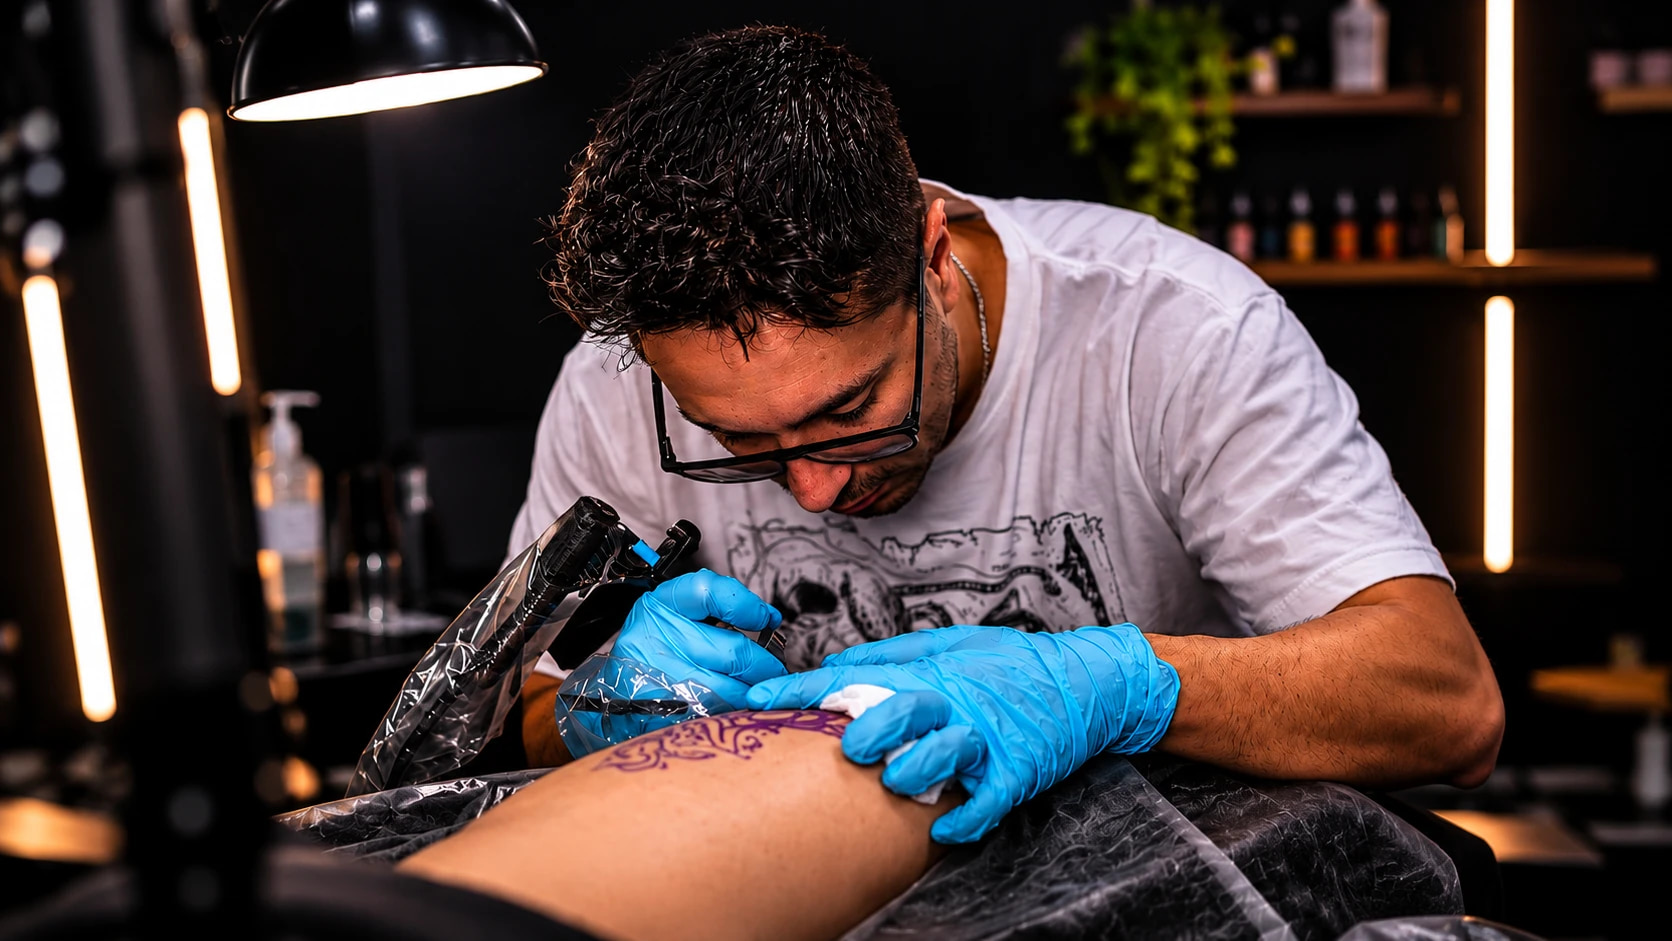
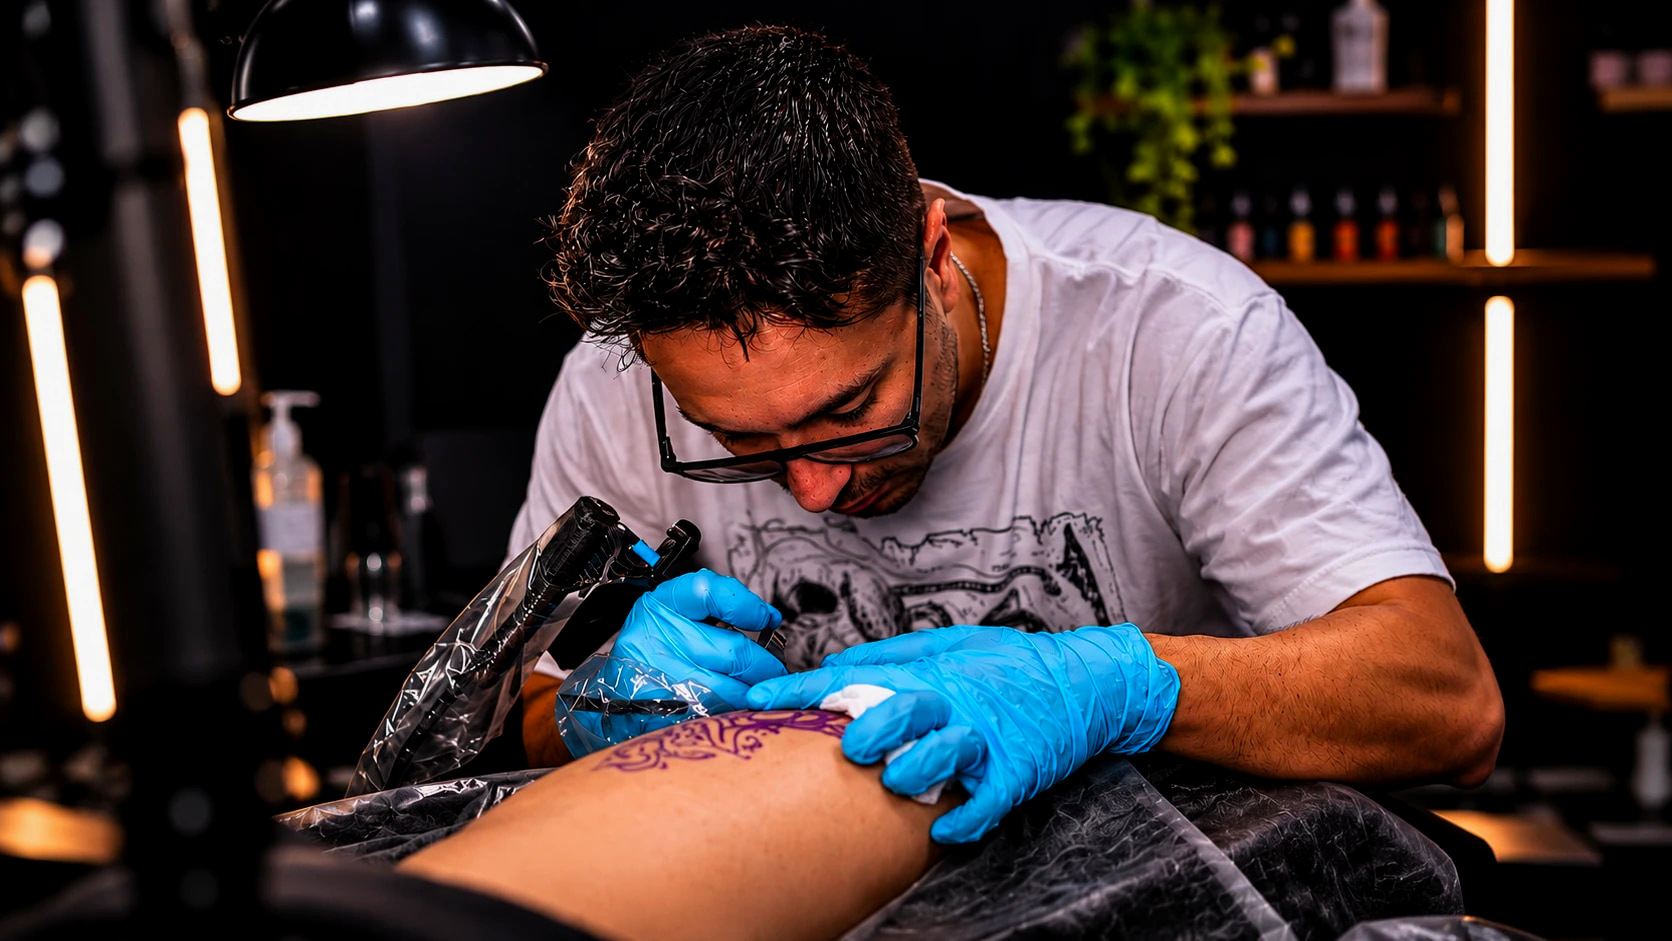
Hero: remove filtros caros da animacao de entrada (cor gravada na foto)

Changed region(s): [[0.3732, 0.5855, 0.7153, 0.8629]]

diff --git a/src/app/globals.css b/src/app/globals.css
@@ -858,8 +858,7 @@ button {
 }
 .hhero__img {
   object-fit: cover;
-  object-position: 64% 30%;
-  filter: saturate(1.08) contrast(1.04) brightness(0.96);
+  object-position: 64% 30%; /* cor já tratada no arquivo: filtro CSS em foto animada trava */
 }
 .hhero__shade {
   position: absolute;
@@ -1288,8 +1287,8 @@ button {
 }
 @keyframes h-side { from { opacity: 0; translate: -18px 0; } }
 @keyframes h-char {
-  from { opacity: 0; transform: translateY(0.7em) rotate(8deg); filter: blur(6px); }
-  to { opacity: 1; transform: none; filter: blur(0); }
+  from { opacity: 0; transform: translateY(0.7em) rotate(8deg); }
+  to { opacity: 1; transform: none; }
 }
 @keyframes h-wipe {
   from { clip-path: inset(-0.15em 100% -0.15em -0.05em); }
@@ -1300,14 +1299,14 @@ button {
   to { clip-path: inset(0 0 0 0 round 999px); }
 }
 @keyframes h-focus {
-  from { opacity: 0; filter: blur(10px); transform: translateY(12px); }
-  to { opacity: 1; filter: blur(0); transform: none; }
+  from { opacity: 0; transform: translateY(14px); }
+  to { opacity: 1; transform: none; }
 }
 @keyframes h-pop { from { transform: scale(0); } }
 @keyframes h-fade { from { opacity: 0; } }
 
 .hhero__photo { animation: h-curtain 1.4s cubic-bezier(0.77, 0, 0.18, 1) both; }
-.hhero__img { scale: 1.1; animation: h-settle 2.6s cubic-bezier(0.16, 1, 0.3, 1) both; }
+.hhero__img { scale: 1.1; will-change: scale; animation: h-settle 1.5s cubic-bezier(0.22, 1, 0.36, 1) both; }
 .hnav__logo { animation: h-side 0.9s cubic-bezier(0.16, 1, 0.3, 1) 1.1s both; }
 .hnav__links { transform-origin: top right; animation: h-glass 1s cubic-bezier(0.16, 1, 0.3, 1) 1.2s both; }
 .hhero__ch { animation: h-char 0.7s cubic-bezier(0.16, 1, 0.3, 1) calc(1.4s + var(--i) * 45ms) both; }
@@ -1321,14 +1320,14 @@ button {
 
 /* Scroll: a foto desce em paralaxe e o texto sai de cena (só onde o navegador suporta) */
 @keyframes h-scroll-img {
-  to { translate: 0 4%; filter: saturate(1.08) contrast(1.04) brightness(0.5); }
+  to { translate: 0 4%; }
 }
 @keyframes h-scroll-body {
   to { opacity: 0; translate: 0 -48px; }
 }
 @supports (animation-timeline: scroll()) {
   .hhero__img {
-    animation: h-settle 2.6s cubic-bezier(0.16, 1, 0.3, 1) both, h-scroll-img linear both;
+    animation: h-settle 1.5s cubic-bezier(0.22, 1, 0.36, 1) both, h-scroll-img linear both;
     animation-timeline: auto, scroll(root);
     animation-range: normal, 0 100vh;
   }
